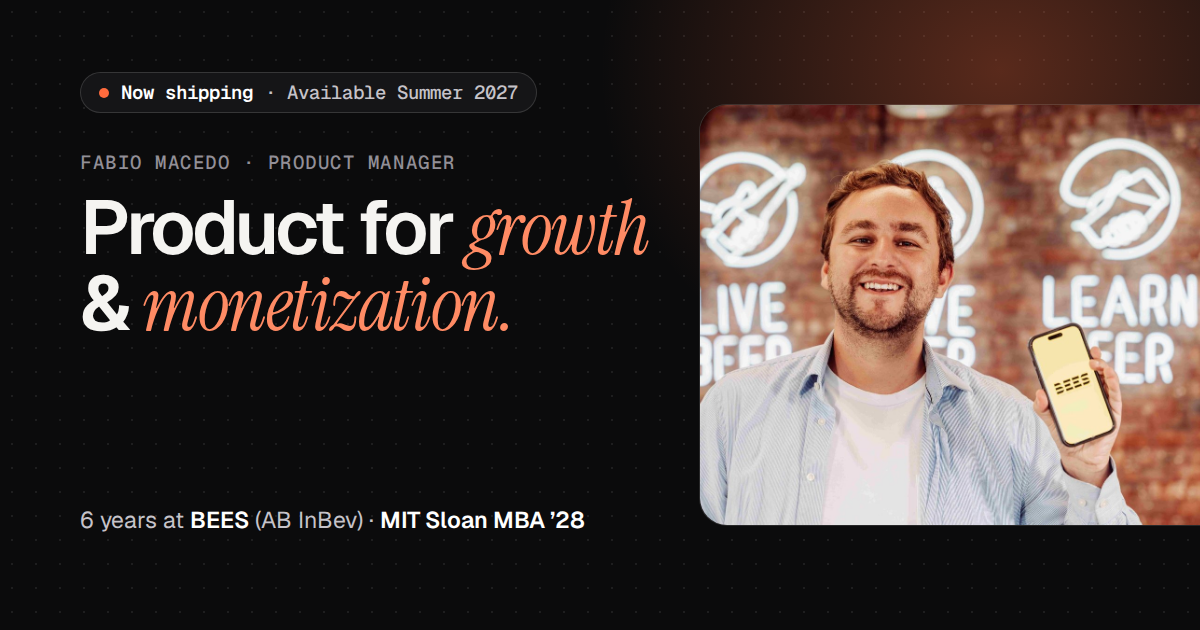
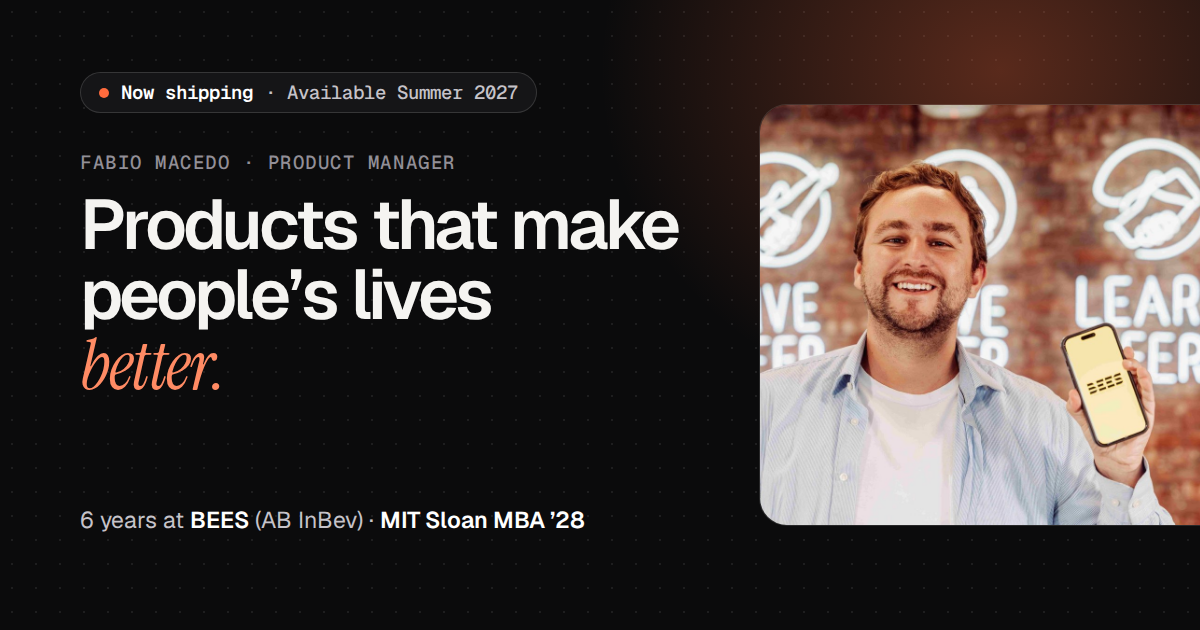
New headline: Products that make people's lives better
Card role and meta description follow; social preview image regenerated.

Claude-Session: https://claude.ai/code/session_01EuFxkNAtcpV4qLw3Jrt2bZ

Changed region(s): [[0.0617, 0.1508, 1.0, 0.8444]]

diff --git a/index.html b/index.html
@@ -4,7 +4,7 @@
 <meta charset="utf-8">
 <meta name="viewport" content="width=device-width, initial-scale=1">
 <title>Fabio Macedo · Product Manager</title>
-<meta name="description" content="Product Manager for growth and monetization. Six years on BEES, AB InBev's B2B commerce app for 300,000 shopkeepers in Peru. MIT Sloan MBA '28.">
+<meta name="description" content="Product Manager building products that make people’s lives better. Six years on BEES, AB InBev's B2B commerce app for 300,000 shopkeepers in Peru. MIT Sloan MBA '28.">
 <meta name="author" content="Fabio Macedo">
 <meta name="color-scheme" content="light dark">
 <link rel="canonical" href="https://fabiomn97.github.io/Who-I-Am/">
@@ -663,7 +663,7 @@ em.s{font-family:var(--serif); font-style:italic; font-weight:400; letter-spacin
         <span class="go" aria-hidden="true"><svg viewBox="0 0 16 16" fill="none" stroke="currentColor" stroke-width="2" stroke-linecap="round" stroke-linejoin="round"><path d="M3 8h10M9 4l4 4-4 4"/></svg></span>
       </a>
       <p class="hero-name">Fabio Macedo · Product Manager</p>
-      <h1>Product for <em class="s">growth</em> &amp; <em class="s">monetization.</em></h1>
+      <h1>Products that make people’s lives <em class="s">better.</em></h1>
       <p class="hero-sub">Six years on <strong>BEES</strong>, AB InBev’s B2B commerce app for <strong>300,000 shopkeepers</strong> in Peru. I fixed what the ML model was optimizing for (<strong>+17.1% first-time purchases</strong>) and built BEES Peru’s first monetization strategy (<strong>$2.6M EBITDA</strong> in year one). Now at MIT Sloan, building toward products that reach <strong>millions of people</strong>.</p>
       <div class="cta-row">
         <a class="btn btn--primary" href="mailto:fabiom97@mit.edu?subject=Let%E2%80%99s%20talk"><svg viewBox="0 0 24 24" fill="none" stroke="currentColor" stroke-width="1.8" stroke-linecap="round" stroke-linejoin="round" aria-hidden="true"><rect x="3" y="5" width="18" height="14" rx="2.5"/><path d="m4 7 8 6 8-6"/></svg>Email me</a>
@@ -690,7 +690,7 @@ em.s{font-family:var(--serif); font-style:italic; font-weight:400; letter-spacin
       </div>
       <div class="pcard-body">
         <div class="pcard-title"><h3>Fabio Macedo</h3><span>PM · 6 yrs</span></div>
-        <p class="pcard-role">Product Manager, growth &amp; monetization</p>
+        <p class="pcard-role">Product Manager · <span style="white-space:nowrap">MIT Sloan MBA ’28</span></p>
         <dl class="spec-list">
           <div><dt>Built for</dt><dd>300K small businesses</dd></div>
           <div><dt>Available</dt><dd>Summer 2027</dd></div>
